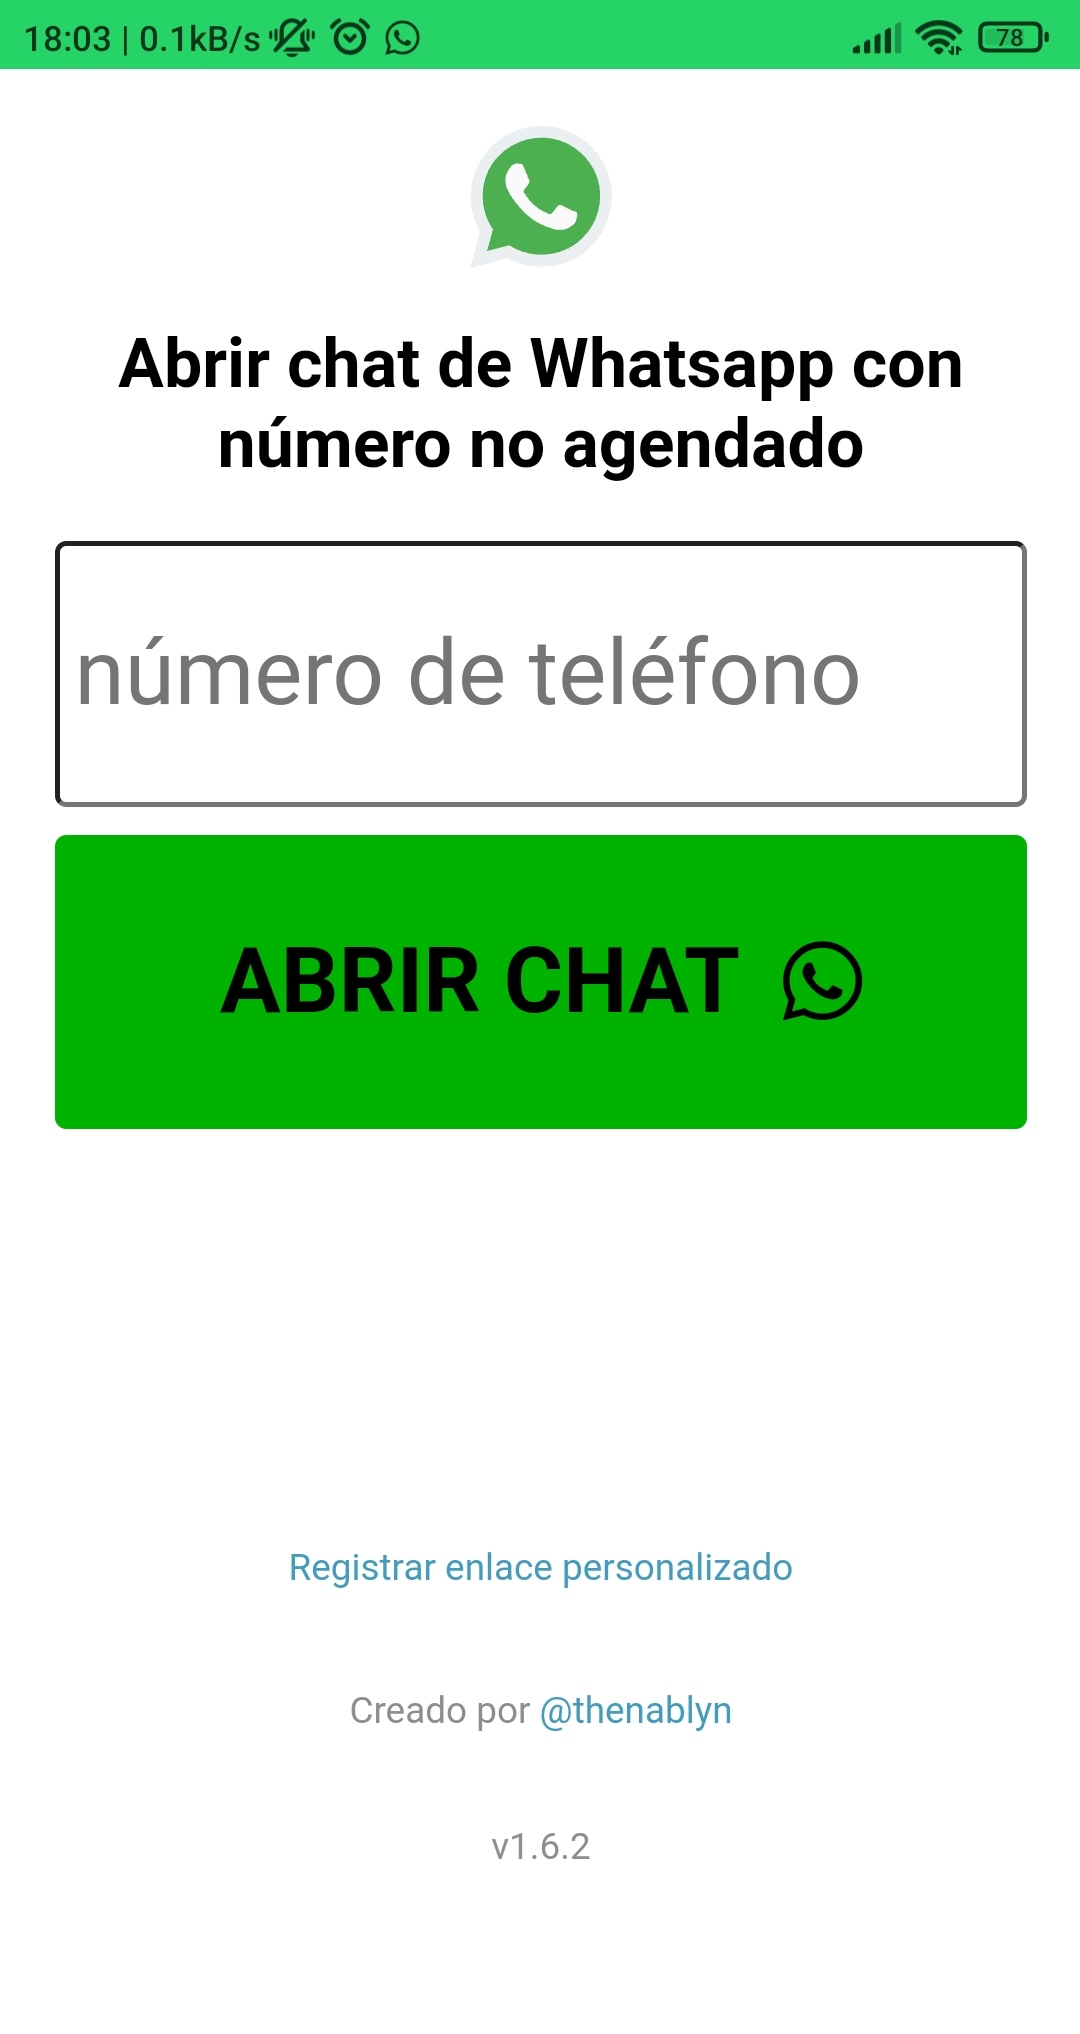
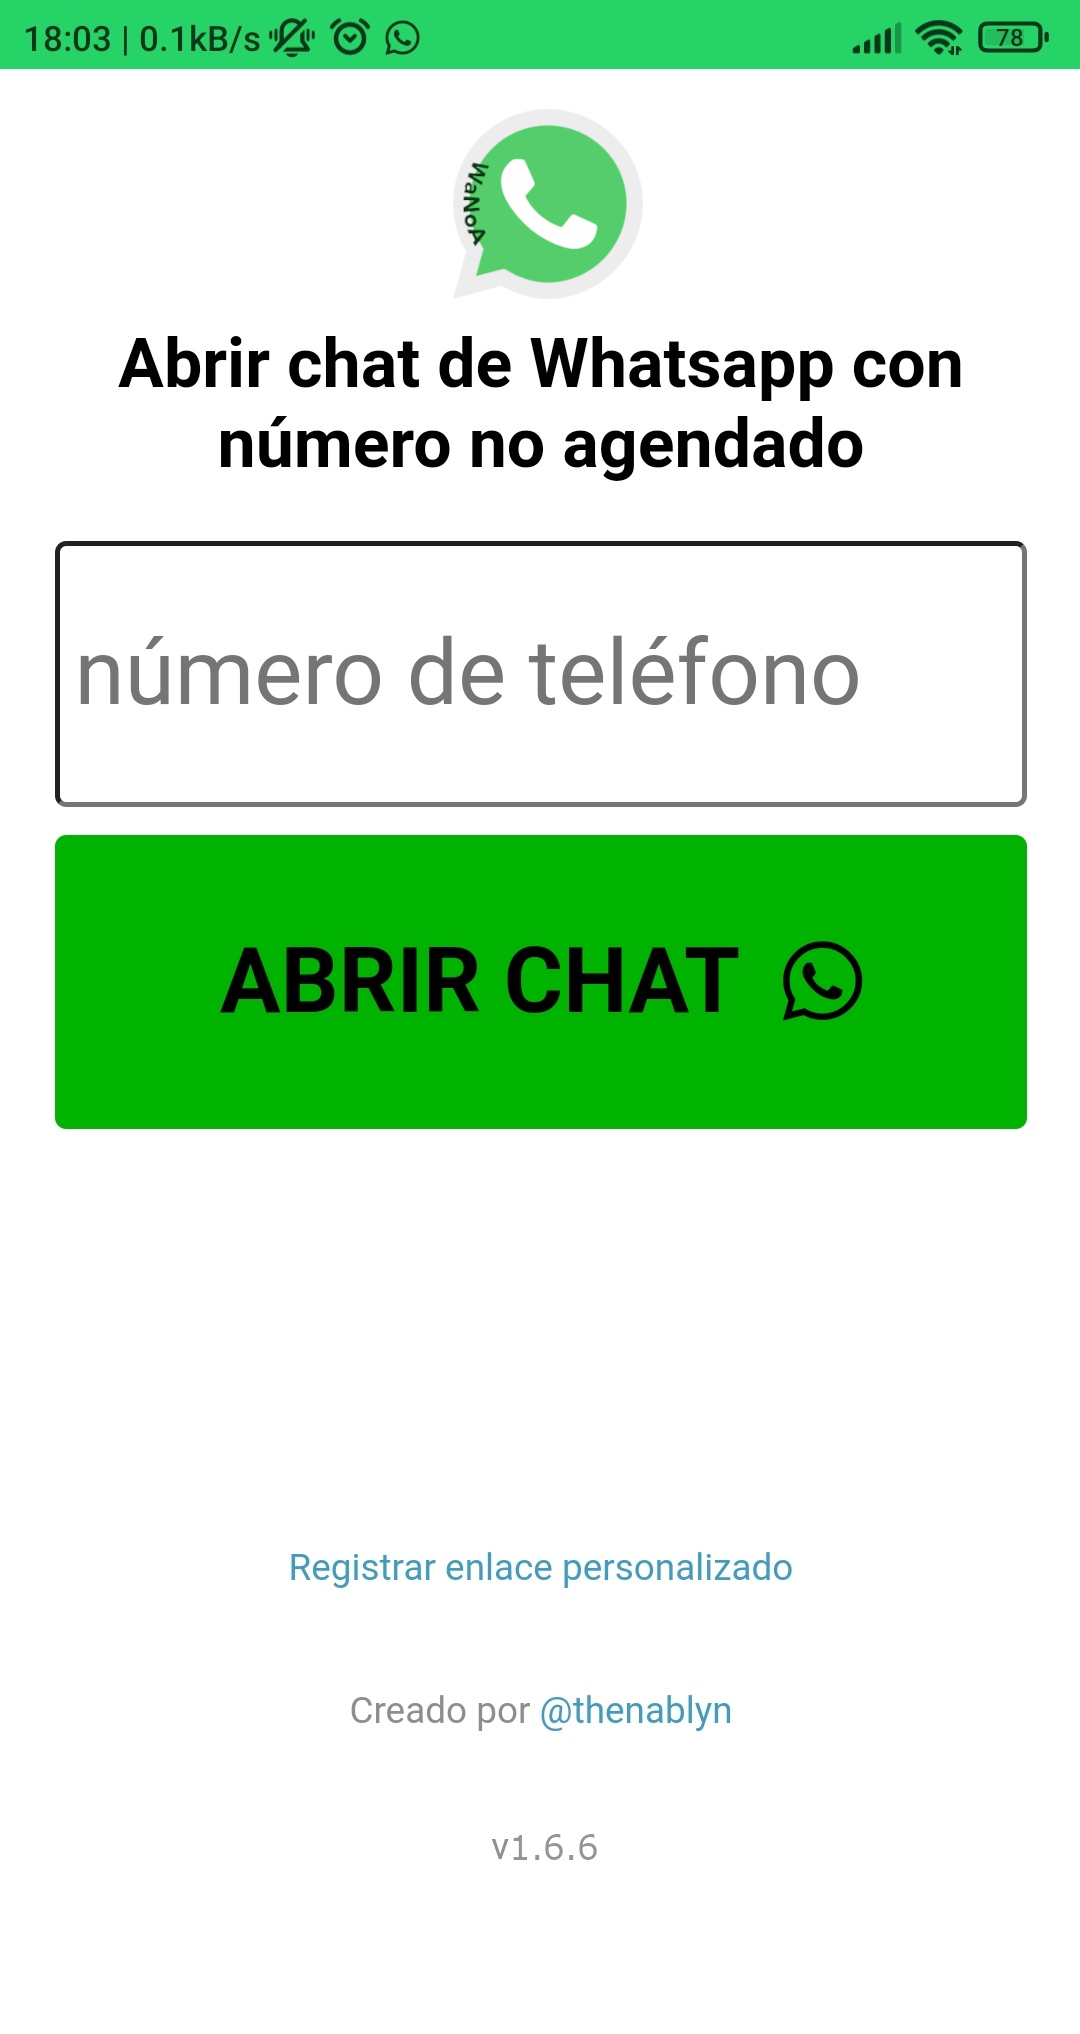
Fix sharing option to open a new chat from phone number selection. Add README

Changed region(s): [[0.4278, 0.0619, 0.5806, 0.1549], [0.4889, 0.8982, 0.55, 0.9292]]

diff --git a/index.html b/index.html
@@ -160,7 +160,7 @@
   </footer>
 
   <script>
-    const versionNumber = "1.6.3";
+    const versionNumber = "1.6.6";
     let eInstall = null;
     window.validate = () => {
       event.preventDefault();
@@ -185,7 +185,7 @@
         const params = (new URL(document.location)).searchParams;
         Utils.debugLog(params);
         // phone number param
-        const nParam = params.get('n');
+        const nParam = params.get('text');
         if (nParam) {
           const cellphoneNumber = Utils.formatCellphoneNumber(nParam);
 

diff --git a/sw.js b/sw.js
@@ -1,4 +1,4 @@
-const versionNumber = "1.6.3";
+const versionNumber = "1.6.6";
 let cacheName = 'wanoa-cache-v4';
 let filesToCache = [
   './images/whatsapp-16.png',

diff --git a/README.md b/README.md
@@ -1,6 +1,57 @@
-# README
+# WaNoA - WhatsApp No Contacts
 
+WaNoA is a Progressive Web App (PWA) that allows users to open WhatsApp chats with phone numbers that are not in their contacts list.
 
-## Instalación
+## Features
 
-### Requisitos
+- 📱 Progressive Web App (PWA) that works on both mobile devices and desktop
+- 🔗 Opens WhatsApp chats directly with phone numbers
+- 📋 System share menu integration
+- 🎯 Quick access from text selection
+- 🌐 No additional app installation required
+
+## Installation
+
+### On mobile devices:
+1. Open [WaNoA](https://grupopietra.com/tools/wsp-ncs/) in your browser
+2. Tap the options menu (three dots)
+3. Select "Add to Home Screen" or "Install App"
+4. Follow the instructions to complete the installation
+
+### On desktop:
+1. Open [WaNoA](https://grupopietra.com/tools/wsp-ncs/) in your browser
+2. Click the install icon in the address bar
+3. Follow the instructions to complete the installation
+
+## Usage
+
+### Method 1: Direct use
+1. Open the WaNoA app
+2. Enter the phone number (with country code)
+3. Tap "Open WhatsApp"
+
+### Method 2: From the share menu
+1. Select a phone number in any application
+2. Tap the share button
+3. Select "Send WhatsApp" in the share menu
+4. The app will automatically open WhatsApp with the selected number
+
+## Requirements
+
+- Modern web browser with PWA support
+- Internet connection
+- WhatsApp installed on the device
+
+## Support
+
+If you encounter any issues or have suggestions, please:
+- Open an issue in this repository
+- Contact the support team
+
+## License
+
+This project is under the MIT License. See the `LICENSE` file for more details.
+
+## Credits
+
+Developed by Grupo Pietra
